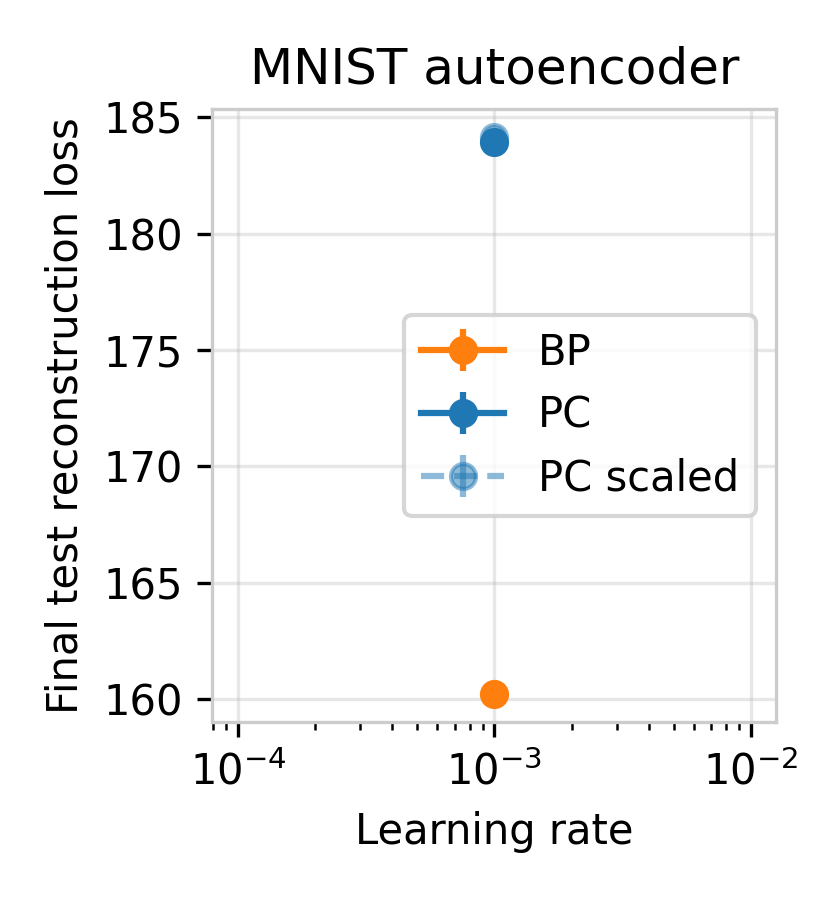
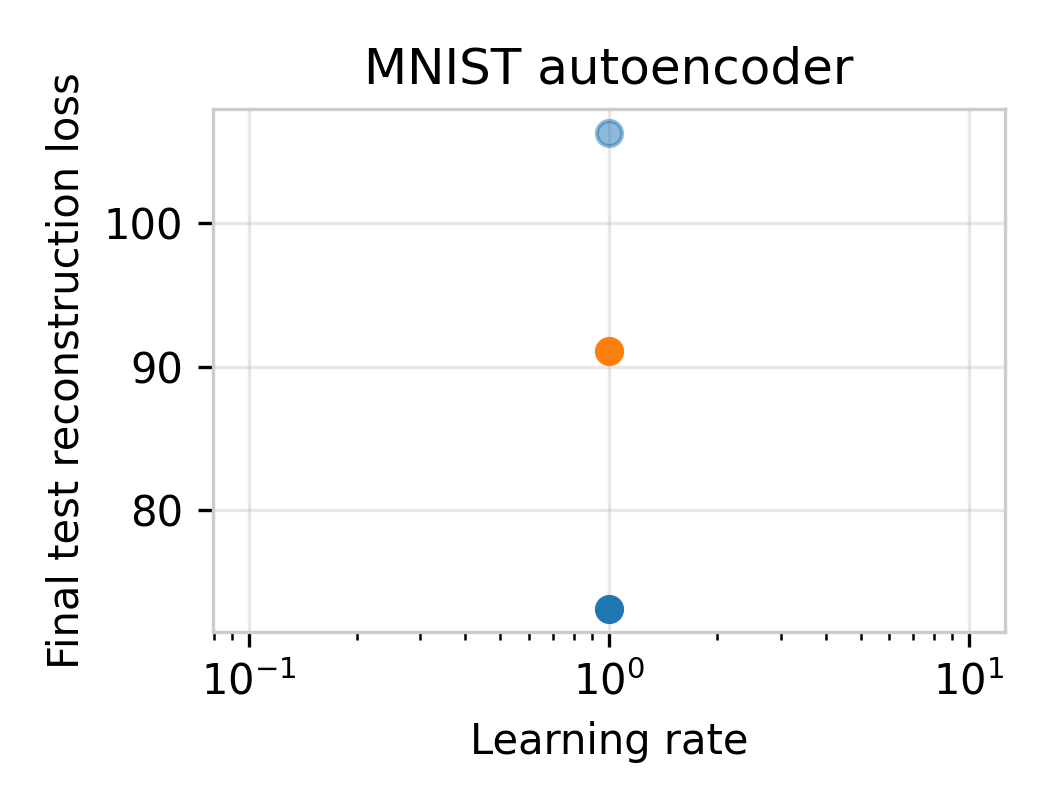
.

Changed region(s): [[0.031, 0.0309, 0.9595, 0.9568]]

diff --git a/Autoencoder/AE_PCedited.py b/Autoencoder/AE_PCedited.py
@@ -531,7 +531,7 @@ def aggregate_curve_runs(runs):
 # Plotting
 # ===
 def plot_lr_sweep(bp_results, pc_results, pc_results_scaled):
-    plt.figure(figsize=(2.8, 3))
+    plt.figure(figsize=(3.5, 2.7))
 
     plt.errorbar(
         [r["lr"] for r in bp_results],
@@ -573,7 +573,7 @@ def plot_lr_sweep(bp_results, pc_results, pc_results_scaled):
     plt.xlabel("Learning rate")#,fontsize=18)
     plt.ylabel("Final test reconstruction loss")#,fontsize=18)
     plt.title("MNIST autoencoder")#,fontsize=18)
-    plt.legend()
+    #plt.legend()
     # Lighten the box (spines)
     ax = plt.gca()
     for spine in ax.spines.values():
@@ -590,7 +590,7 @@ def plot_test_loss_curves_multi(bp_runs, pc_runs, pc_runs_scaled):
     pc_steps, pc_mean, pc_std = aggregate_curve_runs(pc_runs)
     pc_steps_scaled, pc_mean_scaled, pc_std_scaled = aggregate_curve_runs(pc_runs_scaled)
 
-    plt.figure(figsize=(2.8, 3))
+    plt.figure(figsize=(3.5, 2.7))
 
     plt.plot(bp_steps, bp_mean, label="BP", color = '#ff7f0e')#, linewidth=2.5)
     plt.fill_between(
@@ -620,7 +620,7 @@ def plot_test_loss_curves_multi(bp_runs, pc_runs, pc_runs_scaled):
     plt.xlabel("Training steps")#, fontsize=18)
     plt.ylabel("Test reconstruction loss")#, fontsize=18)
     plt.title("MNIST autoencoder")#,fontsize=18)
-    plt.legend()
+    #plt.legend()
     plt.grid(True, alpha=0.3)
     # Lighten the box (spines)
     ax = plt.gca()
